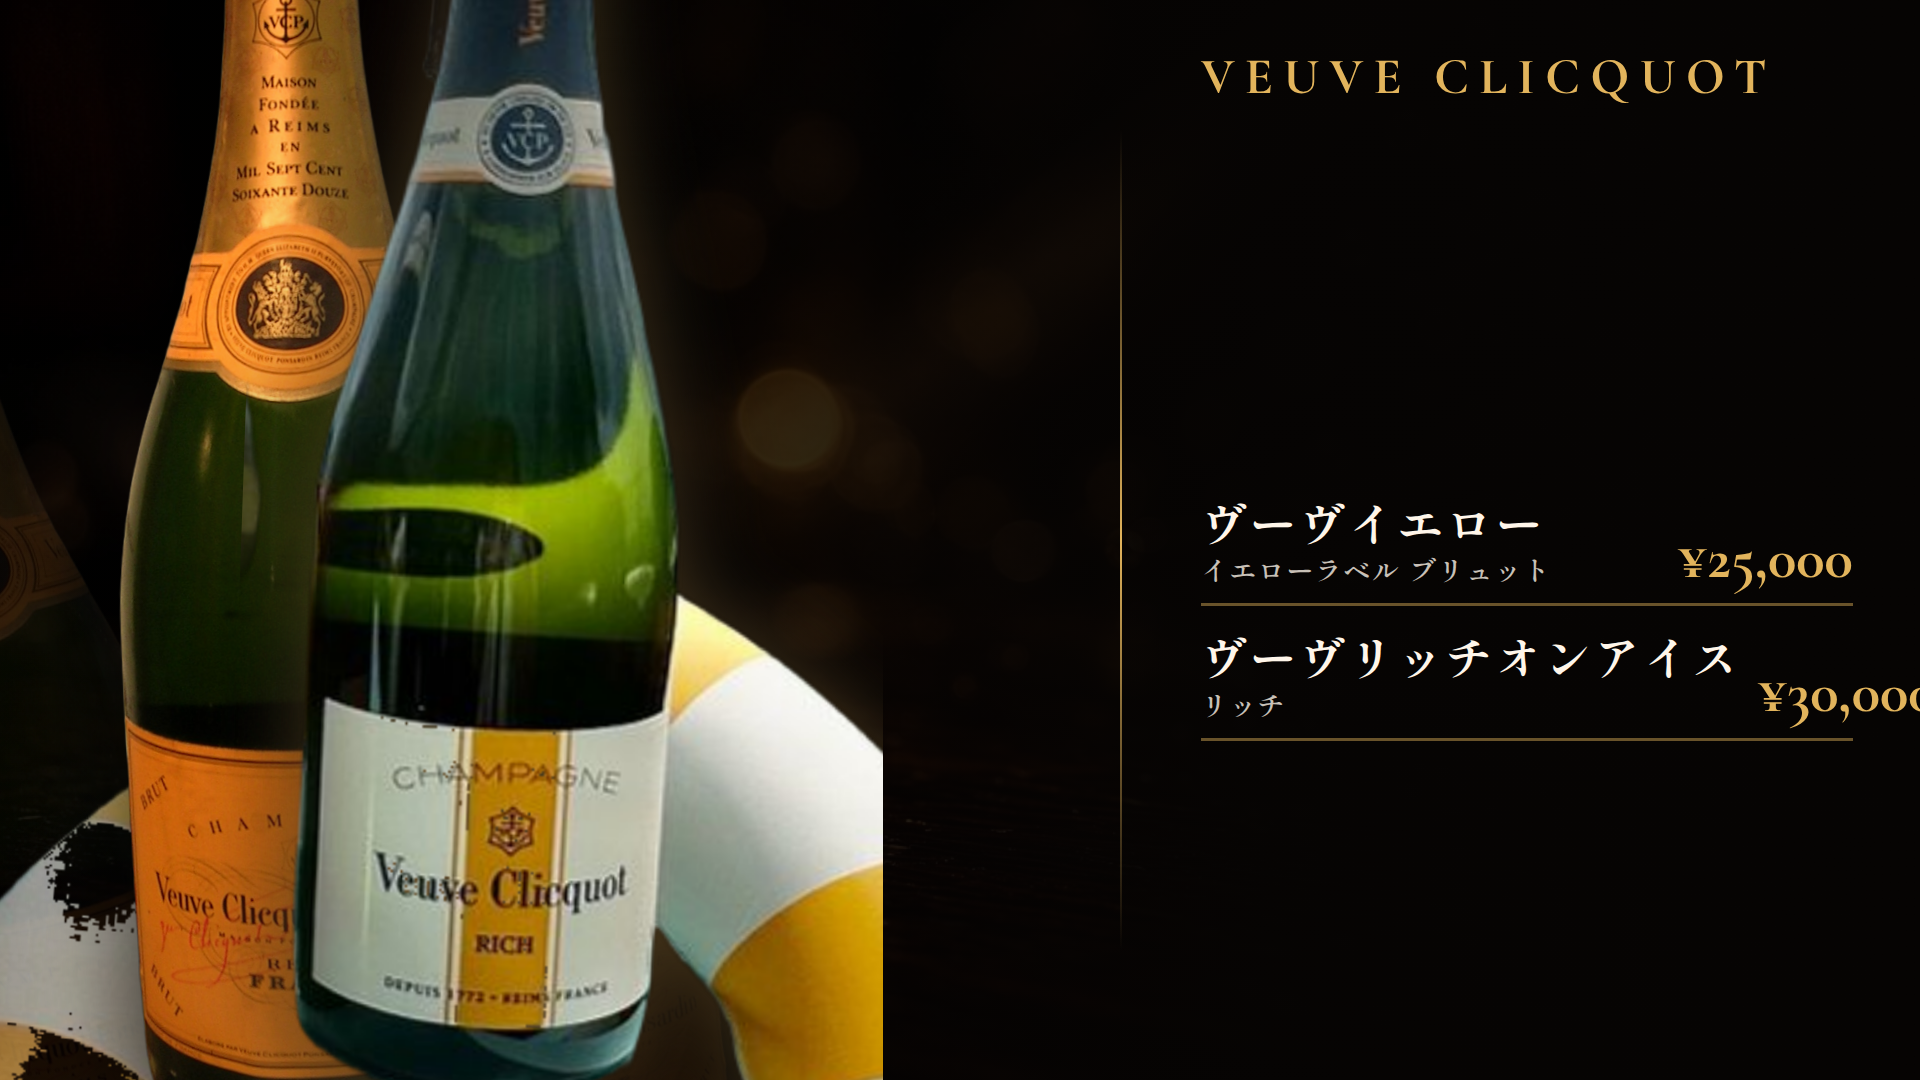
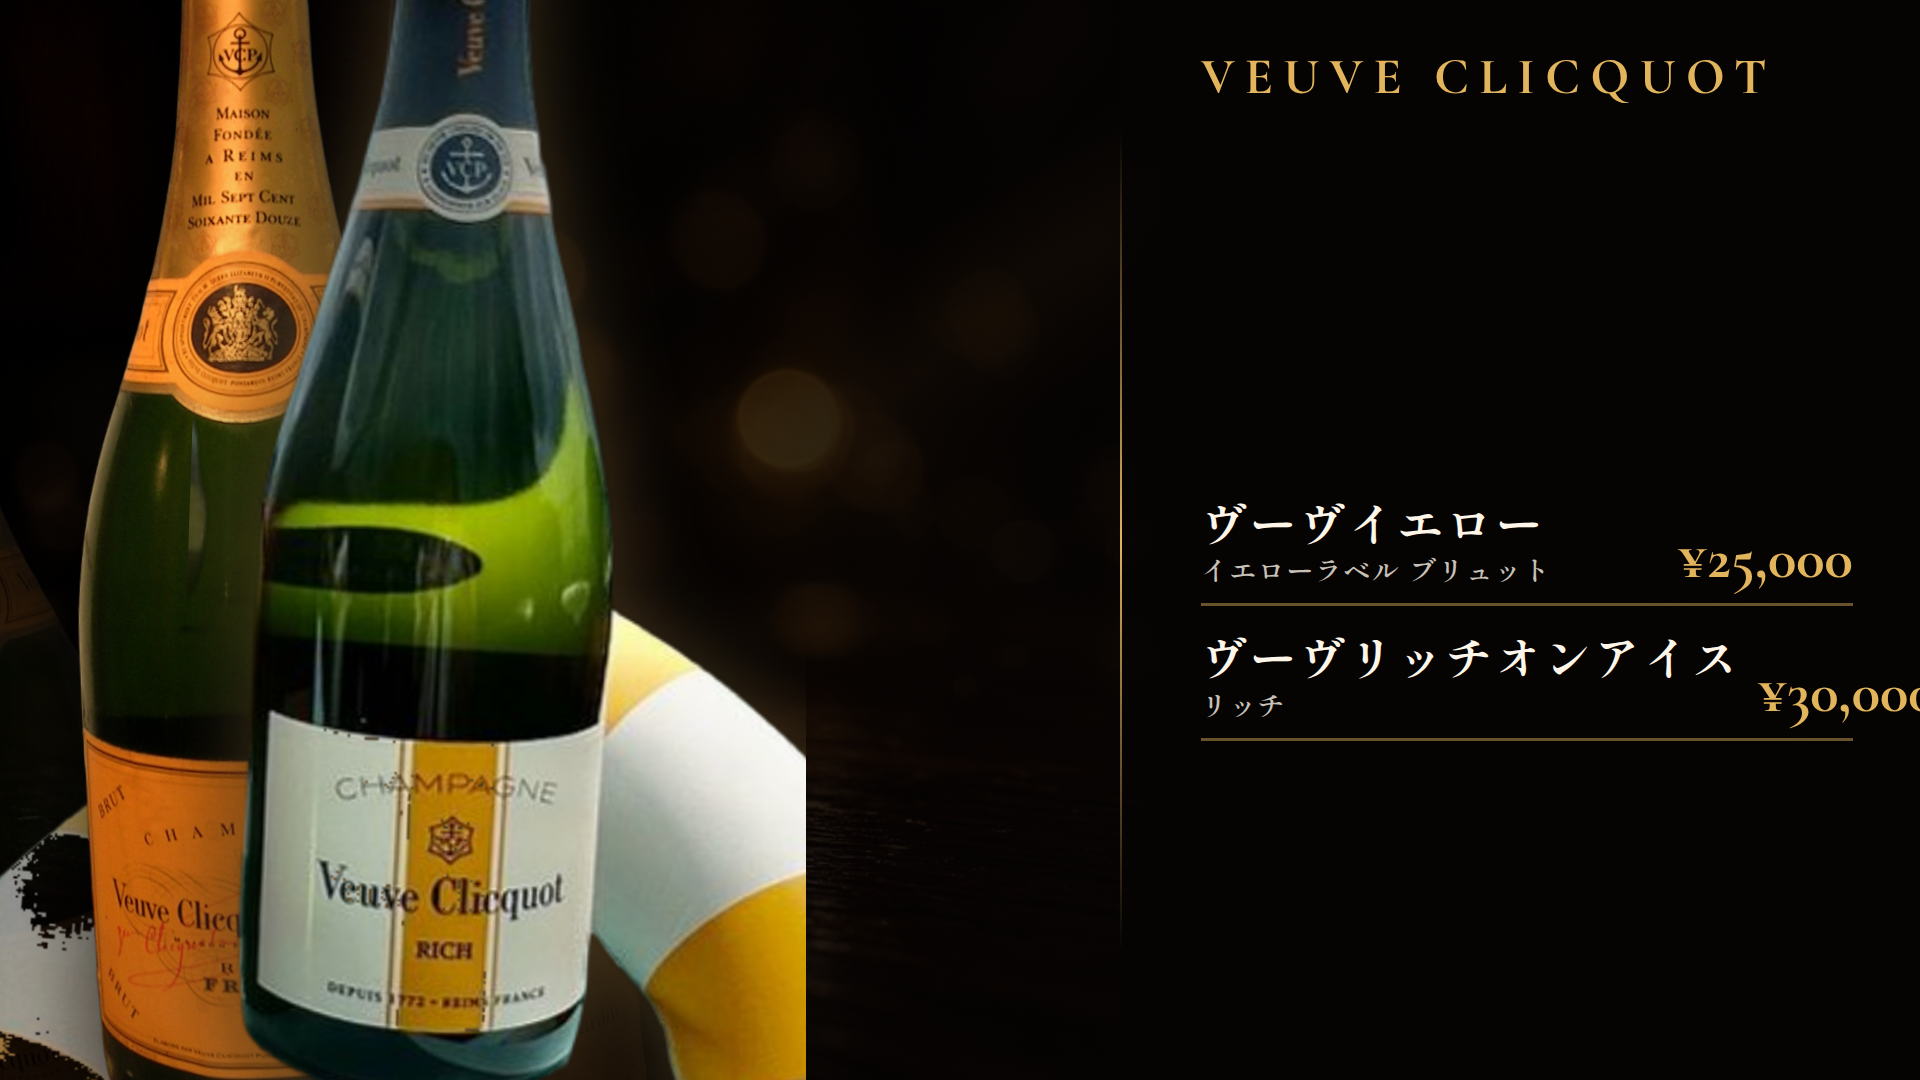
Further isolate Veuve photo column from the menu
Opaque menu panel and tighter left crop so bottles stay left of the gold rule.

Changed region(s): [[0.0, 0.0, 0.4688, 1.0]]

diff --git a/designs/final-veuve-series.css b/designs/final-veuve-series.css
@@ -1,7 +1,7 @@
 .stage{position:relative;width:100%;height:100%}
 .bg{position:absolute;inset:0;width:100%;height:100%;object-fit:cover;filter:brightness(.32)}
 .shade{position:absolute;inset:0;z-index:1}
-.drama{position:absolute;left:0;top:0;bottom:0;width:46%;z-index:2;pointer-events:none;overflow:hidden}
+.drama{position:absolute;left:0;top:0;bottom:0;width:42%;z-index:2;pointer-events:none;overflow:hidden}
 .b{position:absolute;object-fit:contain;filter:drop-shadow(0 30px 60px rgba(0,0,0,.75));will-change:transform}
 .b1{z-index:1;animation:driftA 7.5s ease-in-out infinite}
 .b2{z-index:2;animation:driftB 8.5s ease-in-out infinite}
@@ -9,7 +9,7 @@
 .b4{z-index:5;animation:driftD 7.2s ease-in-out infinite}
 .b5{z-index:4;animation:driftE 9s ease-in-out infinite}
 
-.panel{position:absolute;right:0;top:0;bottom:0;width:min(56vw,800px);z-index:3;padding:0 3.5vw 6vh 4.2vw;display:flex;flex-direction:column;background:linear-gradient(90deg,rgba(6,4,3,.55) 0%,rgba(6,4,3,.92) 18%,rgba(6,4,3,.98) 100%)}
+.panel{position:absolute;right:0;top:0;bottom:0;width:min(56vw,800px);z-index:3;padding:0 3.5vw 6vh 4.2vw;display:flex;flex-direction:column;background:linear-gradient(90deg,rgba(6,4,3,.88) 0%,rgba(6,4,3,.96) 12%,rgba(6,4,3,.99) 100%)}
 .panel .title-zone{flex:0 0 22%;display:flex;align-items:flex-start;padding-top:4.5vh;min-height:0}
 .panel .title{position:static;margin:0;transform:none;left:auto;right:auto;top:auto;font-size:clamp(1.9rem,3.6vw,3.2rem);letter-spacing:.2em;white-space:nowrap}
 .list{flex:1;margin-top:0;display:flex;flex-direction:column;justify-content:center;gap:2.4vh;min-height:0}
@@ -26,8 +26,8 @@
 @media (prefers-reduced-motion:reduce){.b1,.b2,.b3,.b4,.b5{animation:none!important}}
 
 .shade{background:linear-gradient(100deg,rgba(6,4,3,.04) 0%,rgba(6,4,3,.3) 34%,rgba(6,4,3,.8) 58%,rgba(6,4,3,.96) 72%)}
-.b1{left:-18%;bottom:-16%;height:105%;opacity:.18;--r1:-12deg;transform:rotate(-12deg)}
-.b2{left:-2%;bottom:-12%;height:122%;opacity:.8;--r2:5deg;transform:rotate(5deg);z-index:4}
-.b3{left:12%;bottom:-8%;height:132%;opacity:1;--r3:-2deg;transform:rotate(-2deg);z-index:5}
-.b4{left:28%;bottom:-6%;height:138%;opacity:1;--r4:2deg;transform:rotate(2deg);z-index:6;filter:drop-shadow(0 0 40px rgba(226,180,92,.28)) drop-shadow(0 30px 60px rgba(0,0,0,.75))}
-.b5{left:44%;bottom:-14%;height:100%;opacity:.16;--r5:-8deg;transform:rotate(-8deg);z-index:2}
+.b1{left:-22%;bottom:-16%;height:100%;opacity:.16;--r1:-12deg;transform:rotate(-12deg)}
+.b2{left:-6%;bottom:-12%;height:118%;opacity:.78;--r2:5deg;transform:rotate(5deg);z-index:4}
+.b3{left:8%;bottom:-8%;height:128%;opacity:1;--r3:-2deg;transform:rotate(-2deg);z-index:5}
+.b4{left:24%;bottom:-6%;height:134%;opacity:1;--r4:2deg;transform:rotate(2deg);z-index:6;filter:drop-shadow(0 0 40px rgba(226,180,92,.28)) drop-shadow(0 30px 60px rgba(0,0,0,.75))}
+.b5{left:40%;bottom:-14%;height:96%;opacity:.14;--r5:-8deg;transform:rotate(-8deg);z-index:2}
